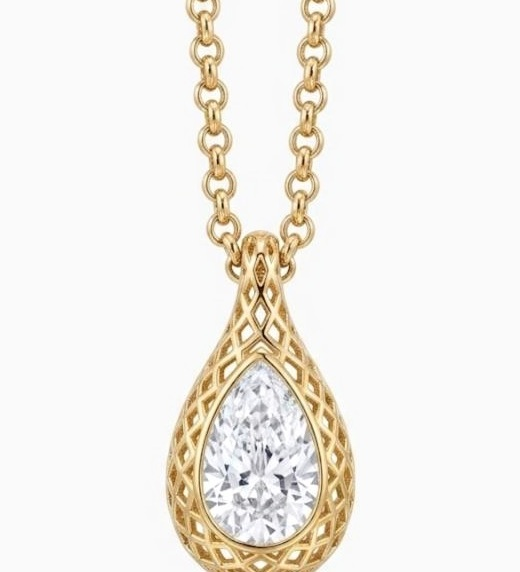
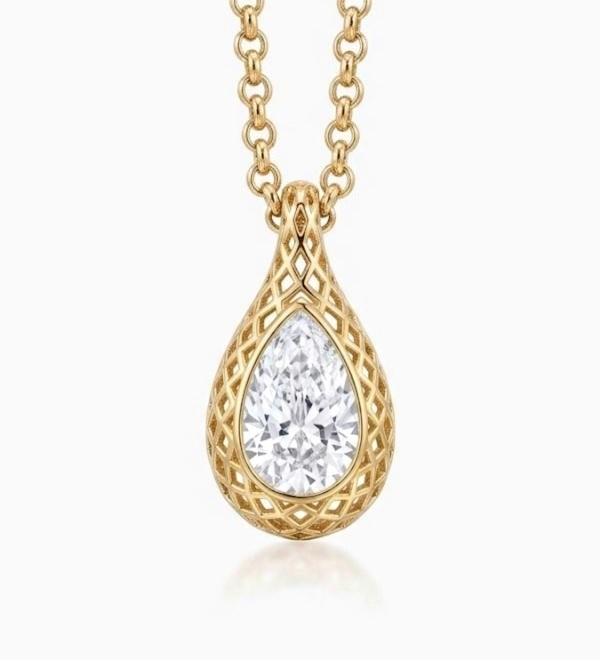
Pendant card crop: show full pendant
Claude-Session: https://claude.ai/code/session_017Li8CGHLQNpPXzno2aoPLJ

Changed region(s): [[0.3077, 0.0, 0.7077, 1.0]]

diff --git a/pendants/index.html b/pendants/index.html
@@ -344,7 +344,7 @@ body{background:#fff}
 <div class="cpills"><a href="https://www.stella-james.com/collections/love-letters-pendants">Love Letters</a><i>|</i><a href="../earrings/index.html">Earrings</a><i>|</i><a href="index.html">Pendants</a><i>|</i><a href="https://www.stella-james.com/collections/rings">Rings</a></div>
 <h1 class="ctitle">Pendants</h1>
 <p class="cintro">Each Stella James pendant is designed to hold a feeling, a memory, or a sense of self. Crafted from custom cut lab-grown diamonds and set in precious metal, these pieces are luminous markers of the moments and meanings that shape us.</p>
-<section class="cgrid" id="cg"><a class="cc" href="pear-lattice-pendant.html"><div class="im"><span class="tagN">New</span><img alt="The Pear Lattice Pendant" src="images/pear-lattice/diamond-card.jpg?v=5"></div><h3>The Pear Lattice Pendant</h3><p>Price to confirm</p></a><a class="cc" href="https://www.stella-james.com/items/the-white-stella-s-star"><div class="im"><img alt="The white Stella Star" src="https://cdn.shopify.com/s/files/1/0630/8931/1840/files/IMG-4259.png?width=900" loading="lazy"></div><h3>The white Stella Star</h3><p>$4,950.00</p></a><a class="cc" href="https://www.stella-james.com/items/the-pear-pendant"><div class="im"><img alt="The Pear Pendant" src="https://cdn.shopify.com/s/files/1/0630/8931/1840/files/IMG-3833.png?width=900" loading="lazy"></div><h3>The Pear Pendant</h3><p>$2,990.00</p></a><a class="cc" href="https://www.stella-james.com/items/the-oval"><div class="im"><img alt="The oval Pendant" src="https://cdn.shopify.com/s/files/1/0630/8931/1840/files/30154578-6B2B-4269-A241-9938ADD4B24E.jpg?width=900" loading="lazy"></div><h3>The oval Pendant</h3><p>$4,100.00</p></a><a class="cc" href="https://www.stella-james.com/items/untitled-sep1410-38-37"><div class="im"><img alt="The Signature Pear Pendant" src="https://cdn.shopify.com/s/files/1/0630/8931/1840/files/D98D2B5B-BC60-4044-B0E8-A7EE46E85D72.jpg?width=900" loading="lazy"></div><h3>The Signature Pear Pendant</h3><p>$5,650.00</p></a><a class="cc" href="https://www.stella-james.com/items/untitled-sep1123-58-21"><div class="im"><img alt="The Pear Drop Pendant" src="https://cdn.shopify.com/s/files/1/0630/8931/1840/files/22891316-A7E1-487B-99B3-EAD490BA43DB.jpg?width=900" loading="lazy"></div><h3>The Pear Drop Pendant</h3><p>$5,400.00</p></a></section>
+<section class="cgrid" id="cg"><a class="cc" href="pear-lattice-pendant.html"><div class="im"><span class="tagN">New</span><img alt="The Pear Lattice Pendant" src="images/pear-lattice/diamond-card.jpg?v=6"></div><h3>The Pear Lattice Pendant</h3><p>Price to confirm</p></a><a class="cc" href="https://www.stella-james.com/items/the-white-stella-s-star"><div class="im"><img alt="The white Stella Star" src="https://cdn.shopify.com/s/files/1/0630/8931/1840/files/IMG-4259.png?width=900" loading="lazy"></div><h3>The white Stella Star</h3><p>$4,950.00</p></a><a class="cc" href="https://www.stella-james.com/items/the-pear-pendant"><div class="im"><img alt="The Pear Pendant" src="https://cdn.shopify.com/s/files/1/0630/8931/1840/files/IMG-3833.png?width=900" loading="lazy"></div><h3>The Pear Pendant</h3><p>$2,990.00</p></a><a class="cc" href="https://www.stella-james.com/items/the-oval"><div class="im"><img alt="The oval Pendant" src="https://cdn.shopify.com/s/files/1/0630/8931/1840/files/30154578-6B2B-4269-A241-9938ADD4B24E.jpg?width=900" loading="lazy"></div><h3>The oval Pendant</h3><p>$4,100.00</p></a><a class="cc" href="https://www.stella-james.com/items/untitled-sep1410-38-37"><div class="im"><img alt="The Signature Pear Pendant" src="https://cdn.shopify.com/s/files/1/0630/8931/1840/files/D98D2B5B-BC60-4044-B0E8-A7EE46E85D72.jpg?width=900" loading="lazy"></div><h3>The Signature Pear Pendant</h3><p>$5,650.00</p></a><a class="cc" href="https://www.stella-james.com/items/untitled-sep1123-58-21"><div class="im"><img alt="The Pear Drop Pendant" src="https://cdn.shopify.com/s/files/1/0630/8931/1840/files/22891316-A7E1-487B-99B3-EAD490BA43DB.jpg?width=900" loading="lazy"></div><h3>The Pear Drop Pendant</h3><p>$5,400.00</p></a></section>
 
 <section class="exp"><h2>Explore All Collections</h2><div class="erow"><a href="https://www.stella-james.com/collections/love-letters"><img src="https://cdn.prod.website-files.com/6800032555e25721a3be6721/69851e5ffd338da9433b5fbe_Stella_James.jpg" alt="Love Letters" loading="lazy"><h3>Love Letters</h3><p>Our signature diamond letter pendants made for our love ones</p><span>Shop Love Letters</span></a><a href="https://www.stella-james.com/collections/love-letters-earrings"><img src="https://cdn.prod.website-files.com/6800032555e25721a3be6721/69851e648b2465bb9ddbdce3_Stella_James%20(1).jpg" alt="Earrings" loading="lazy"><h3>Earrings</h3><p>Elevated diamond essentials for everyday elegance</p><span>Shop Earrings</span></a><a href="https://www.stella-james.com/collections/pendants"><img src="https://cdn.prod.website-files.com/6800032555e25721a3be6721/69851e587c04ca1f651a7e28_Stella_James%20(2).jpg" alt="Pendants" loading="lazy"><h3>Pendants</h3><p>Timeless diamond pendant crafted with refined clarity and understated elegance</p><span>Shop Pendants</span></a><a href="https://www.stella-james.com/collections/rings"><img src="https://cdn.prod.website-files.com/6800032555e25721a3be6721/69851e915b7e42f365821ee1_Stella_James.jpg" alt="Rings" loading="lazy"><h3>Rings</h3><p>Timeless diamond rings for every moment</p><span>Shop Rings</span></a></div></section>
 <section class="duoL"><div><span class="k">Need guidance?</span><h2>Talk to a Specialist</h2><p>We’re here to help you find your perfect combination. Whether selecting your first letter, curating a meaningful set, or creating a piece that tells your story.</p><a class="wa" href="https://wa.me/19398456949"><svg viewBox="0 0 24 24" fill="none" stroke="currentColor" stroke-width="1.3"><path d="M3.5 20.5l1.3-4A8.5 8.5 0 1 1 8 19.7z"/><path d="M9 8.6c.2-.5.4-.6.8-.6h.5c.2 0 .4.1.5.4l.7 1.6c.1.2 0 .5-.1.6l-.5.6c-.1.2-.1.4 0 .6.6 1 1.4 1.8 2.4 2.4.2.1.4.1.6 0l.6-.5c.2-.1.4-.2.6-.1l1.6.7c.3.1.4.3.4.5v.5c0 .4-.1.6-.6.8-.7.3-1.6.4-2.6 0-1.8-.7-3.6-2.5-4.3-4.3-.4-1-.3-1.9 0-2.6z"/></svg> Chat on WhatsApp</a></div>
